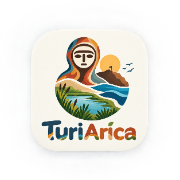
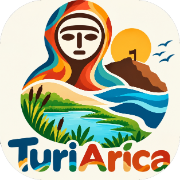
feat(pwa): apply IconoDefinitivo and fix hero video autoplay, moov faststart and initial black frame

diff --git a/src/components/Hero3D.jsx b/src/components/Hero3D.jsx
@@ -1,18 +1,42 @@
-import { useRef } from 'react';
+import { useRef, useEffect } from 'react';
 import { motion, AnimatePresence } from 'framer-motion';
 
-const HERO_VIDEO = "https://res.cloudinary.com/dirgawanf/video/upload/q_auto/v1789146026/202609111345_jzwgh2.mp4";
-const HERO_POSTER = "https://res.cloudinary.com/dirgawanf/video/upload/so_0,q_auto,w_1920/v1789146026/202609111345_jzwgh2.jpg";
+// Video optimizado con moov atom al inicio (faststart), tamaño de 3.3MB y poster en el segundo 3 (Arica iluminada)
+const HERO_VIDEO = "https://res.cloudinary.com/dirgawanf/video/upload/q_auto,w_1280/v1789146026/202609111345_jzwgh2.mp4";
+const HERO_POSTER = "https://res.cloudinary.com/dirgawanf/video/upload/so_3,q_auto,w_1280/v1789146026/202609111345_jzwgh2.jpg";
 
 function VideoBackground() {
   const videoRef = useRef(null);
 
+  useEffect(() => {
+    const video = videoRef.current;
+    if (!video) return;
+
+    // Forzar muted a nivel DOM para superar la política estricta de navegadores (Brave/Chrome/Safari)
+    video.muted = true;
+    video.defaultMuted = true;
+
+    const startPlay = () => {
+      // Saltar el fundido negro de los primeros 1.5 segundos
+      if (video.currentTime < 1.5) {
+        video.currentTime = 1.5;
+      }
+      video.play().catch(() => {});
+    };
+
+    if (video.readyState >= 1) {
+      startPlay();
+    } else {
+      video.addEventListener('loadedmetadata', startPlay, { once: true });
+    }
+  }, []);
+
   const handleTimeUpdate = () => {
     const video = videoRef.current;
     if (!video || !video.duration) return;
-    // Se corta exactamente 1 segundo antes de terminar y vuelve al inicio en bucle infinito
+    // Se corta 1 segundo antes de terminar y vuelve al segundo 1.5 en bucle infinito perfecto
     if (video.currentTime >= video.duration - 1) {
-      video.currentTime = 0;
+      video.currentTime = 1.5;
       video.play().catch(() => {});
     }
   };
@@ -30,7 +54,7 @@ function VideoBackground() {
         onTimeUpdate={handleTimeUpdate}
         onEnded={() => {
           if (videoRef.current) {
-            videoRef.current.currentTime = 0;
+            videoRef.current.currentTime = 1.5;
             videoRef.current.play().catch(() => {});
           }
         }}

diff --git a/src/components/home/Hero3D.jsx b/src/components/home/Hero3D.jsx
@@ -1,18 +1,42 @@
-import { useRef } from 'react';
+import { useRef, useEffect } from 'react';
 import { motion, AnimatePresence } from 'framer-motion';
 
-const HERO_VIDEO = "https://res.cloudinary.com/dirgawanf/video/upload/q_auto/v1789146026/202609111345_jzwgh2.mp4";
-const HERO_POSTER = "https://res.cloudinary.com/dirgawanf/video/upload/so_0,q_auto,w_1920/v1789146026/202609111345_jzwgh2.jpg";
+// Video optimizado con moov atom al inicio (faststart), tamaño de 3.3MB y poster en el segundo 3 (Arica iluminada)
+const HERO_VIDEO = "https://res.cloudinary.com/dirgawanf/video/upload/q_auto,w_1280/v1789146026/202609111345_jzwgh2.mp4";
+const HERO_POSTER = "https://res.cloudinary.com/dirgawanf/video/upload/so_3,q_auto,w_1280/v1789146026/202609111345_jzwgh2.jpg";
 
 function VideoBackground() {
   const videoRef = useRef(null);
 
+  useEffect(() => {
+    const video = videoRef.current;
+    if (!video) return;
+
+    // Forzar muted a nivel DOM para superar la política estricta de navegadores (Brave/Chrome/Safari)
+    video.muted = true;
+    video.defaultMuted = true;
+
+    const startPlay = () => {
+      // Saltar el fundido negro de los primeros 1.5 segundos
+      if (video.currentTime < 1.5) {
+        video.currentTime = 1.5;
+      }
+      video.play().catch(() => {});
+    };
+
+    if (video.readyState >= 1) {
+      startPlay();
+    } else {
+      video.addEventListener('loadedmetadata', startPlay, { once: true });
+    }
+  }, []);
+
   const handleTimeUpdate = () => {
     const video = videoRef.current;
     if (!video || !video.duration) return;
-    // Se corta exactamente 1 segundo antes de terminar y vuelve al inicio en bucle infinito
+    // Se corta 1 segundo antes de terminar y vuelve al segundo 1.5 en bucle infinito perfecto
     if (video.currentTime >= video.duration - 1) {
-      video.currentTime = 0;
+      video.currentTime = 1.5;
       video.play().catch(() => {});
     }
   };
@@ -30,7 +54,7 @@ function VideoBackground() {
         onTimeUpdate={handleTimeUpdate}
         onEnded={() => {
           if (videoRef.current) {
-            videoRef.current.currentTime = 0;
+            videoRef.current.currentTime = 1.5;
             videoRef.current.play().catch(() => {});
           }
         }}
